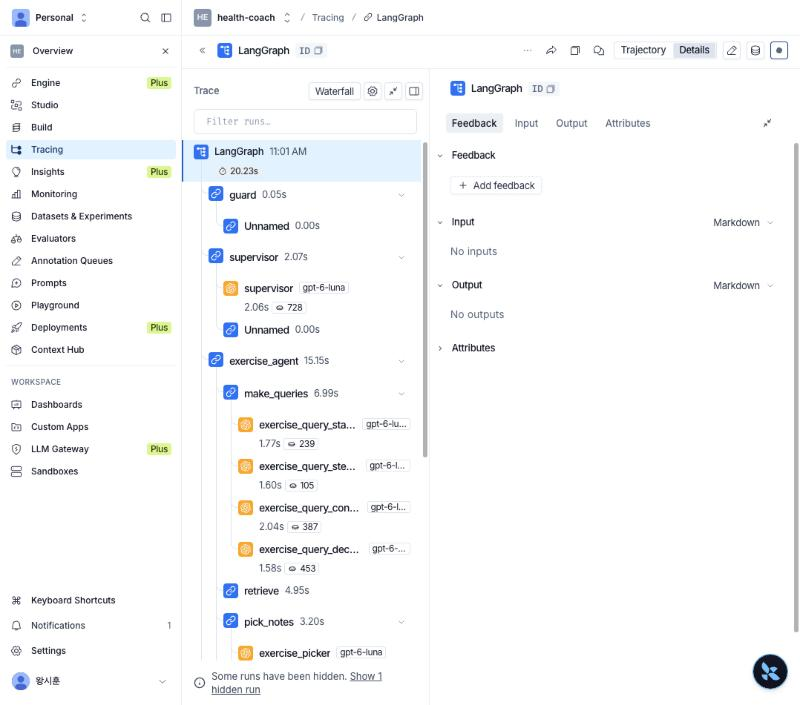
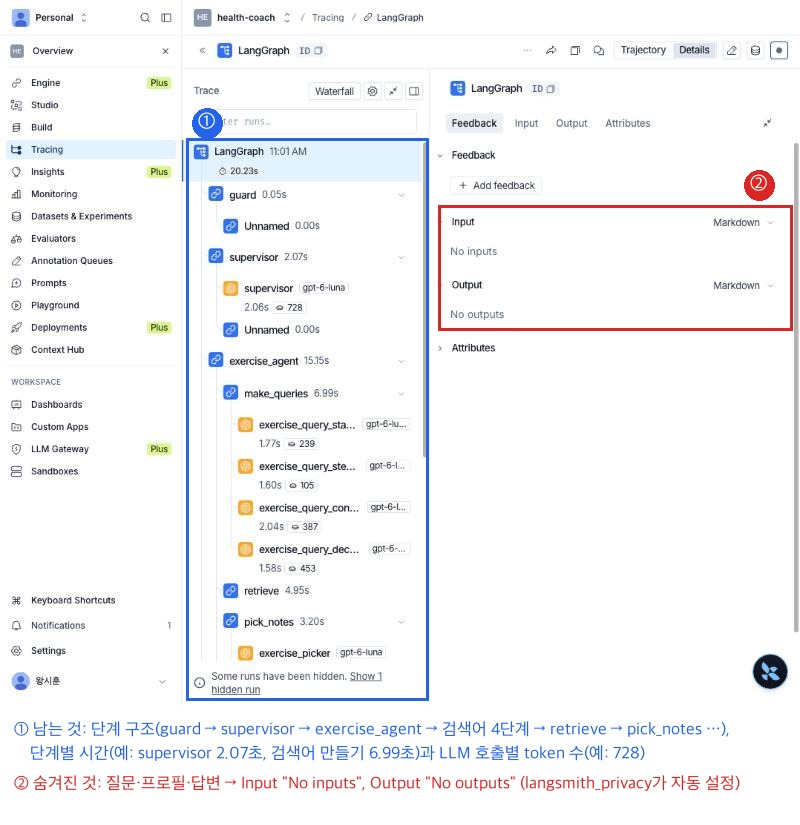
Report: RAG stage rationale from the PoC ablations, formal appeal points, annotated LangSmith trace, label line breaks

diff --git a/docs/REPORT.md b/docs/REPORT.md
@@ -93,21 +93,32 @@ flowchart TD
 6. 기록 저장·조회는 **Records Agent**가 MCP 사용자 서버로 처리하고, 기록 삭제는 **사용자 승인** 뒤에만 실행합니다. 약 변경·상담 연결·다른 사람 정보·개인정보 질문에는 정해진 안전한 답을 줍니다.
 7. 모든 메시지는 **자체 모니터링 로그**에 남고, 응급·상담 요청은 **관리자 화면**에 알림으로 떠서 운영자가 확인합니다.
 
-**Diet / Exercise Agent 내부 (Health Agentic RAG)**
+**Diet / Exercise Agent 내부 — Health Agentic RAG 파이프라인**
 ```mermaid
 flowchart LR
-  Q[질문 + 프로필<br/>일반 질문이면<br/>프로필 없이] --> MQ[검색어 만들기 4단계<br/>핵심 표현 · 더 넓은 질문<br/>질환·약별 · 질문 나누기]
-  MQ --> RV[MCP 논문 검색<br/>의미 검색 + BM25<br/>대상이 다른 논문 제외]
-  RV --> PK[근거 고르기 + 메모<br/>검색어마다 상위 10개 중 2개<br/>LCEL batch 동시 처리]
-  PK --> VN[메모 검증<br/>원문에 없는 단어가 있는<br/>메모 제거]
-  VN --> EV[근거 메모<br/>+ 출처]
+  IX[Indexing<br/>section-aware parsing<br/>table linearization<br/>parent 800 / child 300] -.-> RV
+  Q[Input<br/>질문 + 마스킹된 프로필<br/>일반 질문은 프로필 제외] --> MQ[Query Transformation<br/>core terms · step-back<br/>condition-specific · decomposition]
+  MQ --> RV[Hybrid Retrieval<br/>dense + BM25, RRF α 0.5<br/>population metadata filter<br/>query별 top 10]
+  RV --> PK[Evidence Selection<br/>LLM listwise selection 2/query<br/>contextual compression<br/>→ 근거 메모]
+  PK --> VN[Faithfulness Check<br/>note verification<br/>원문에 없는 단어 → 제거]
+  VN --> GN[Grounded Generation<br/>Writer: 메모 + 안전 규칙만<br/>근거 없으면 답변 보류]
 ```
 
+**단계별 설계 근거** (근거 수치는 당뇨 PoC 실험 — 식단 본인 질문 50개, 같은 정답 근거 기준 — 의 결정 기록 번호와 함께 표기)
+| 단계 | 영역 · 기법 | 이 프로젝트의 설정 | 왜 이렇게 설계했나 |
+|---|---|---|---|
+| 1 | **Indexing**<br>section-aware parsing, table linearization, Parent-Child (Small-to-Big) chunking | PMC XML을 section 단위로 파싱, 표는 행 단위 문장으로 변환<br>parent 800자(overlap 100) / child 300자(overlap 50) | · child 300자 근처가 parent 크기와 상관없이 일관되게 상위 (L54)<br>· overlap을 없애면 근거 문장이 잘려 본인 질문 근거 비율 0.47 → 0.33 (L54)<br>· semantic chunking·contextual header는 오히려 하락 (L51, L54)<br>· 표 linearization 누락 시 ADA 소금·음주 표를 못 찾는 문제를 실제로 발견해 수정 |
+| 2 | **Query Transformation**<br>multi-step query chain: core terms → step-back → condition-specific → decomposition | 4단계 LLM chain + 코드 검사(프로필 항목명 복사·질문 반복 금지), 검색어 개수는 LLM이 결정(상한 없음) | · 하나씩 빼기 실험에서 decomposition 제거 시 근거 회수율 0.94 → 0.89로 가장 큰 손실 (L77)<br>· 질환·약별 검색어 제거 시 답변 점수 0.825 → 0.783: "약 때문에 저혈당" 같은 개인 위험 근거를 이 검색어가 가져옴 (L115)<br>· multi-query·multi-hop·논문 용어 검색어는 기여 0 → 제외 (L77)<br>· 4단계를 1회 호출로 합치면 1.4초 단축되지만 대표 6문항 중 3문항 품질 하락 → 미채택 (L128) |
+| 3 | **Hybrid Retrieval**<br>dense (text-embedding-3-small) + sparse (BM25), Reciprocal Rank Fusion, metadata filtering | query마다 child 검색 → parent 반환, RRF α 0.5, 임신·소아·제1형 당뇨 등 대상이 다른 논문 제외 | · 질문 하나로 검색할 때는 BM25가 오히려 방해 (L62)이지만, decomposition된 짧은 query마다 적용하면 약 이름·수치·의학 용어의 정확한 일치를 보완해 근거 비율 0.53 → 0.57 (child top 35), 0.59 → 0.66 (parent) (L88)<br>· 대상 필터로 엉뚱한 논문이 빠져 정답 chunk 54 → 56개, 안전 규칙과 함께 답변 점수 0.771 → 0.825 (L113)<br>· embedding은 PoC에서 OpenAI와 로컬 모델(mxbai)의 검색 정확도가 같아(R@6 0.40, L44·L47) 서비스 배포가 단순한 API 모델 사용 |
+| 4 | **Evidence Selection**<br>LLM-based listwise selection + contextual compression (근거 메모 추출) | query마다 상위 10개 후보 중 LLM이 2개를 고르고 질문에 필요한 사실만 메모로 추출, LCEL batch로 동시 처리 | · 상위 10개 후보 안에 정답 근거가 본인 0.78 / 일반 0.84로 가장 많음 (L90)<br>· query마다 2개 채택이 1개 채택보다 정답 근거를 더 담음 (4/4 vs 3/4, L101)<br>· cross-encoder reranking은 순위는 올렸지만 넘기는 근거 수는 그대로 (L64, L65), MMR·cosine 순 선택은 크게 하락 (L87)<br>· picker에 parent 대신 child만 주면 맥락(대상·수치)을 잃어 0.825 → 0.729 (L115) |
+| 5 | **Faithfulness Check**<br>output verification (hallucination guard) | 메모의 내용 단어 중 원문 passage에 없는 단어가 2개 이상이면 메모 제거 (코드, 비용 0) | · picker가 검색어의 단어를 섞어 "시차 비행 인슐린"처럼 근거 없는 메모를 만든 사례 발견 (L121)<br>· 적용 후 근거 없는 질문 보류 6/8 → 7/8, 답변 점수 손실 없음 (L122)<br>· 일반 원칙: LLM 출력을 검증 없이 다음 단계로 넘기지 않음 |
+| 6 | **Grounded Generation**<br>evidence-constrained writer + safety notes | Writer는 근거 메모와 안전 규칙만 사용, 출처 표기, 근거가 없으면 정해진 보류 문장<br>일반 질문은 일반 답을 먼저, 개인 주의 사항은 짧게 | · 근거에 없는 사실을 쓰지 않게 해 환각을 줄임 (대가: 일반 지식형 문항 감점, 4절)<br>· 안전 규칙을 Writer 입력에 넣으면 저혈당 경고 같은 필수 내용이 채워져 답변 점수 상승 (L113)<br>· 본인·일반 질문 구분 복구로 일반 질문 85.7% → 95.2% (3-4) |
+
 ### 2-3. 어필 포인트 4가지
-1. **Agentic RAG 실험 설계와 구조화**: 당뇨 PoC에서 chunking, 검색 방식, 검색어 만들기, 근거 선택, 메모 검증을 하나씩 실험해(결정 기록 132단계) 최종 구성을 골랐습니다. 이번 과제에서는 같은 구성을 식단과 운동 두 분야에 적용했습니다. 꼭 필요한 근거를 찾아 온 비율이 31.6%에서 58.2%로 올랐습니다(3-2).
-2. **MCP와 Multi-Agent가 단일 Agent보다 나은 점**: 같은 Health Agentic RAG를 쓰는 단일 Agent와 비교했습니다. 일반 질문 점수 85.7% → 95.2%, 건강 질문 외 메시지 처리 35.0% → 97.5%, 100개 전체 평균 응답 시간 14.0초 → 11.8초, 총비용 $0.218 → $0.198(3-3).
-3. **응급 상황과 개인정보 처리**: 응급 감지(코드 + LLM 이중), 약 변경 거절, 상담 연결 버튼, 다른 사람 정보 거절, 이름 제거, LangSmith 내용 숨김, 자체 로그(2-6).
-4. **과제 요구 기술 전부 + 서비스 완성도**: Multi-Agent, MCP, RAG, 의존성 주입, LangSmith, 모듈화, 단위 테스트, FastAPI, 사용자·관리자 화면, 실제 실행 녹화.
+1. **Agentic RAG의 실험 기반 설계**: Indexing, Query Transformation, Hybrid Retrieval, Evidence Selection, Faithfulness Check, Grounded Generation 각 단계를 ablation 실험(하나씩 더하고 빼기)으로 검증해 구성을 결정했습니다(결정 기록 133단계, 위 표). 같은 파이프라인을 식단·운동 두 도메인에 적용했고, 표준 RAG 대비 정답 근거 회수율이 31.6% → 58.2%(본인 질문 19.6% → 50.0%)로 향상됐습니다(3-3).
+2. **MCP 기반 Multi-Agent 구조의 효과 검증**: 같은 Health Agentic RAG를 사용하는 Single-Agent와 통제 비교했습니다. Supervisor의 경로 선택과 본인·일반 질문 구분으로 일반 질문 점수 85.7% → 95.2%, 건강 질문 외 메시지 처리율 35.0% → 97.5%를 달성했고, 불필요한 검색을 생략해 100개 기준 평균 응답 시간 14.0초 → 11.8초, 총비용 $0.218 → $0.198로 줄었습니다(3-4).
+3. **안전성과 개인정보 보호 설계**: 응급 상황은 코드 규칙과 LLM의 이중 감지로 5/5를 119로 안내했고, 위험 조언은 규칙 기반 출력 검증으로 0%를 달성했습니다. 개인정보는 MCP 서버 분리와 마스킹, LangSmith 입력·출력 비공개, 자체 모니터링 로그로 외부 노출 범위를 최소화했습니다(2-6).
+4. **과제 요구 기술의 완전한 구현과 서비스 완성도**: Multi-Agent(LangGraph), MCP, RAG, 의존성 주입, LangSmith, 모듈화, 단위 테스트 18개, FastAPI + SSE를 모두 구현하고, 사용자 화면·관리자 화면과 두 가지 HITL(사용자 승인, 운영자 알림 처리)까지 갖춘 서비스로 완성했습니다.
 
 ### 2-4. 사용한 기술과 활용 방법
 | 기술 | 어떻게 썼나 | 위치 |
@@ -123,6 +134,10 @@ flowchart LR
 | **FastAPI + SSE** | 사용자 화면은 Agent 진행 단계를 실시간으로 받아 "검색 중…"처럼 보여 줍니다.<br>관리자 API는 요약·알림·사용자별 상세를 제공합니다 | `app/server.py`, `web/` |
 
 ![LangSmith trace: 단계와 시간은 보이고 입력·출력은 숨겨짐](img/langsmith_trace_hidden_content.jpg)
+
+**이 화면이 보여 주는 것 (LangSmith 실제 trace 1건)**
+- ① 파란 상자 — **기록되는 것**: 그래프의 단계 구조(guard → supervisor → exercise_agent → 검색어 4단계 → retrieve → pick_notes …), 단계별 시간(supervisor 2.07초, 검색어 만들기 6.99초), LLM 호출별 token 수(supervisor 728 token)<br>→ 어느 단계가 느린지, 어디서 비용이 드는지 분석할 수 있음
+- ② 빨간 상자 — **숨겨지는 것**: 질문·프로필·답변. Input은 "No inputs", Output은 "No outputs"로 표시<br>→ `coach/config.py`의 `langsmith_privacy()`가 tracing을 켤 때 입력·출력 숨김을 자동으로 설정
 
 ### 2-5. 가상 사용자 10명과 평가 설계
 **가상 사용자** (나이는 50~90대 각 2명, 성별 5:5, 위험 요인이 고르게 나뉘도록 설계)
@@ -152,7 +167,7 @@ flowchart LR
   OQ --> C[내 정보·기록<br/>10]
   OQ --> D[잡담<br/>10]
   OQ --> SF[안전 10<br/>응급 5 + 약 변경 5]
-  OQ --> SV[서비스·개인정보 10<br/>상담 3 · 삭제 3<br/>다른 사람 2 · 안내 2]
+  OQ --> SV[서비스·개인정보 10<br/>상담 연결 3<br/>기록 삭제 3<br/>다른 사람 정보 2<br/>개인정보 안내 2]
 ```
 - 본인 질문(본인 건강 정보 + 논문 참조 질문)과 일반 질문(논문 참조 질문)을 분야마다 10개씩 같게 두고, **각 10개는 사용자 10명이 한 번씩** 묻도록 배치해 위험 요인별 안전 규칙이 고르게 시험됩니다.
 - 건강 질문마다 꼭 들어가야 할 핵심 내용(필수 답변 항목, 총 97개)과 그 근거가 되는 논문 원문 문장(98개)을 미리 정했습니다. 채점 기준과 프롬프트는 [평가 방법](EVALUATION.md)에 공개했습니다.
